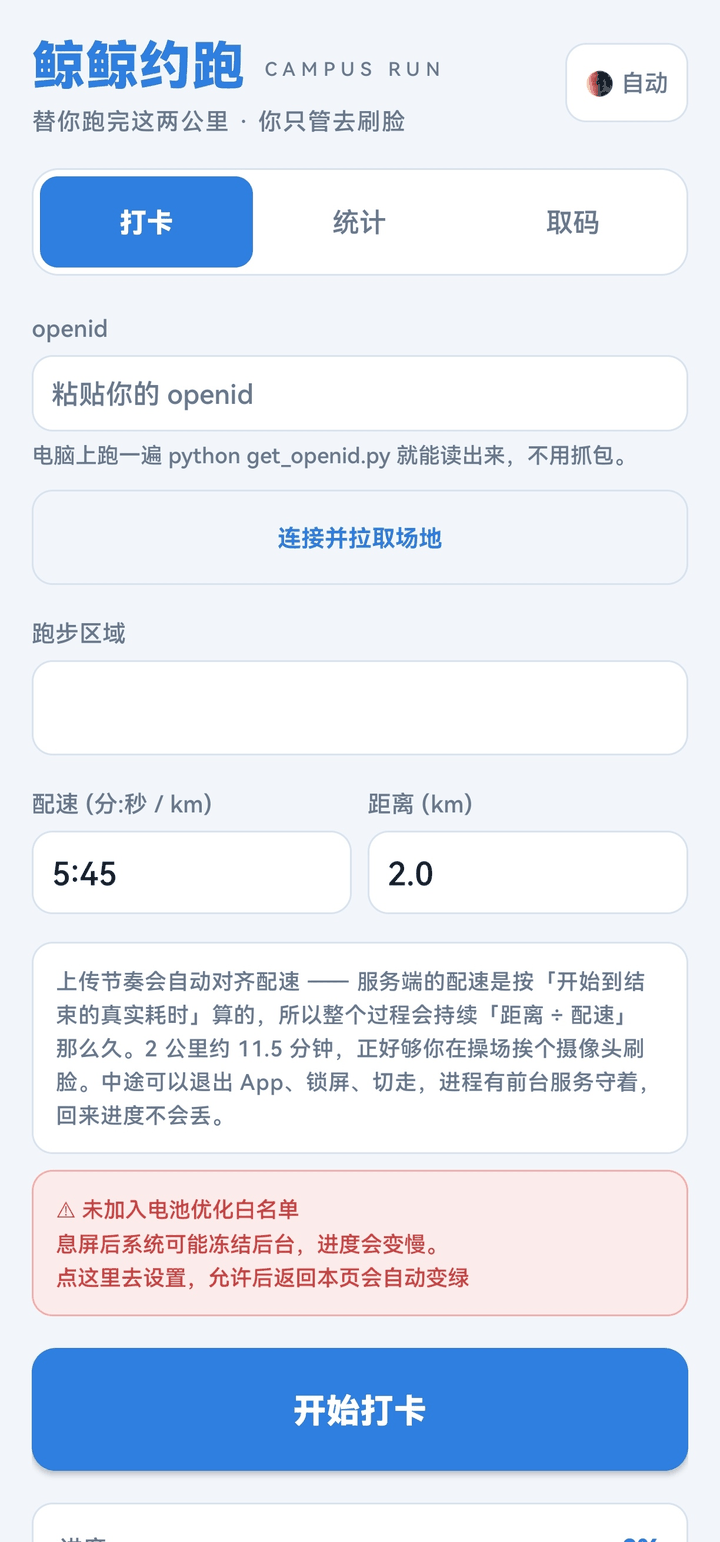
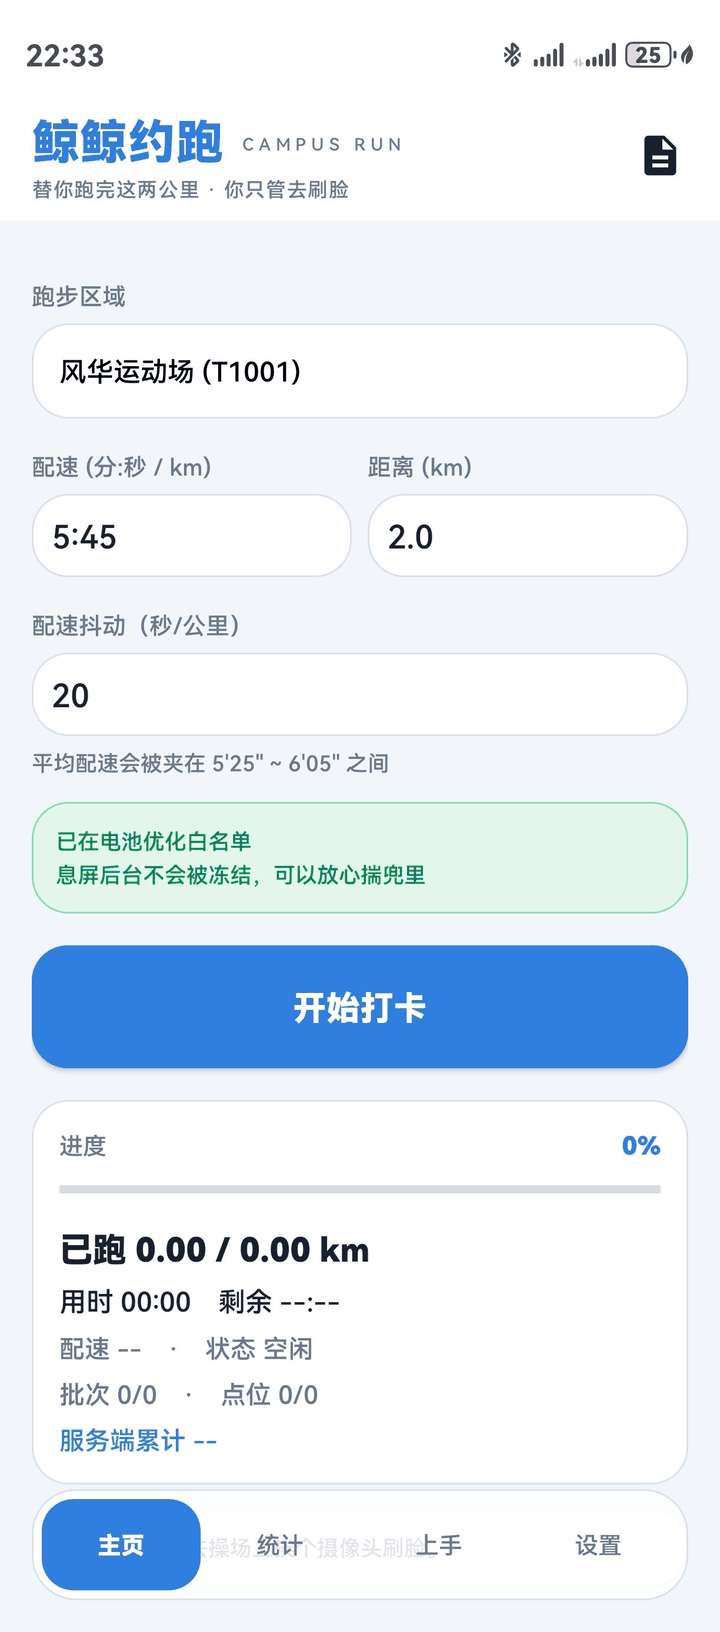
v1.10.0 docs update

diff --git a/android-app/README.md b/android-app/README.md
@@ -12,25 +12,34 @@
 
 ## 界面结构
 
-**主页只有打卡。** 其余全部收进右上角【设置】。
+**一个 Activity + 四个 panel**，底部一条悬浮切换栏。切页只改 `visibility`，
+不重建 Activity，也不引 Fragment / 导航库（守住「零第三方依赖」）。
 
 ```
-主页                          设置页（右上角「设置」进入）
-├── 跑步区域                  ├── openid 输入
-├── 配速 / 距离               ├── 连接并拉取场地
-├── 平均配速容差              ├── 主题（跟随系统 / 深色 / 浅色）
-├── 电池白名单提示             ├── 成绩统计
-├── 开始 / 结束打卡           ├── 取码（openid 说明 + 提取脚本）
-├── 实时仪表盘                ├── 使用教程
-└── 运行日志（右上角【日志】）  ├── 说明信息
-                             └── 开源仓库
+主页                        统计
+├── 跑步区域                └── 成绩汇总 / 分场地 / 最近记录
+├── 配速 / 距离
+├── 配速抖动                 上手
+├── 电池白名单提示           ├── 使用教程
+├── 开始 / 结束打卡          ├── openid 输入 + 连接并拉取场地
+└── 实时仪表盘              └── 取码（openid 说明 + 提取脚本）
+（顶栏右上角小图标进【日志】页）
+
+                            设置
+                            ├── 主题（跟随系统 / 深色 / 浅色）
+                            ├── 说明信息
+                            ├── 开源仓库
+                            └── 署名
 ```
 
-> openid 填在设置页。填完返回主页时会**自动刷新场地列表**（`AreaStore` +
+对应布局：`activity_main.xml`（顶栏 + 4 个 `<include>` + 悬浮栏）
+与 `panel_run / panel_stats / panel_start / panel_settings.xml`。
+四个 panel 的 `id` 全局唯一，`MainActivity.showTab()` 切可见性。
+
+> openid 填在【上手】页。填完切回主页时会**自动刷新场地列表**（`AreaStore` +
 > `onResume` 里的 `syncAreas()`），不需要先点一次【开始打卡】。
 
-主题切换因此也从主页挪到了设置页，改成了「跟随系统 / 深色 / 浅色」三段式，
-不再是一个循环按钮。
+主题切换在【设置】页，是「跟随系统 / 深色 / 浅色」三段式，不是一个循环按钮。
 
 ### 连不上服务器时
 
@@ -74,7 +83,10 @@
 实测（风华运动场，2000m，15 秒滚动窗口）：分段配速约 **4'10" ~ 7'59"**。
 （滚动窗口才对应「跑者感受到的配速」—— 逐秒的瞬时配速在停顿处趋于无穷，取极值没意义。）
 
-### 平均配速容差
+### 配速抖动（容差）
+
+> 界面上叫「配速抖动」，代码里仍是 etTol / paceTol / paceToleranceSec ——
+> 换的只是用户可见文案，机制没动。
 
 主页多了一个「平均配速容差」输入，默认 **20 秒/公里**：
 

diff --git a/docs/img/README.md b/docs/img/README.md
@@ -1,31 +1,36 @@
 # README 截图
 
-实机拍摄（HarmonyOS，浅色主题）。原图 1224×26xx，处理成 720 宽 + 调色板量化。
+实机拍摄（HarmonyOS，浅色主题），原图 1224×2776。处理成 **720 宽 + 256 色 PNG（带抖动）** ——
+UI 截图用调色板量化是标准做法，体积掉一半多，肉眼看不出差别。
 
-| 文件 | 内容 | 拍摄要点 |
+| 文件 | 页面 | 内容 |
 |---|---|---|
-| `01-run.png` | 【打卡】页，未连接 | openid 输入框（空）、配速 5:45、距离 2.0、红色电池条、开始按钮 |
-| `02-stats.png` | 【统计】页 | 数字已打码 |
-| `03-help.png` | 【取码】页 | 说明 + 复制/分享脚本按钮 + 行数统计 |
-| `04-running.png` | 【打卡】页跑动中 | 绿色电池条 + 实时仪表盘（5% / 0.10 km / 批次 5/99） |
-| `05-battery-bad.png` | 电池条 · 红色 | 未加白名单 |
-| `06-battery-ok.png` | 电池条 · 绿色 | 已加白名单（**注意：没有 ✅，v1.8 去掉了**） |
-| `07-log.png` | 运行日志 | 完整 ①~⑥ 流程，含「记录干净，从 0 开始」 |
+| `icon.png` | — | 应用图标（插画），README 顶部大图，512×512 真彩 |
+| `01-run.png` | 【主页】 | 风华运动场 / 配速 5:45 / 距离 2.0 / 配速抖动 20 / **绿色**电池条 / 开始打卡 / 仪表盘 |
+| `02-stats.png` | 【统计】 | 刷新统计 + 汇总 + 分场地 + 最近记录（数据已打码） |
+| `03-start.png` | 【上手】 | 使用教程 + 账号 openid 输入 + 连接并拉取场地 |
+| `04-settings.png` | 【设置】 | 主题三段式 + 说明 + 开源仓库入口 + 署名 |
+| `05-battery-bad.png` | — | 电池条 · **红色**（未加白名单） |
+| `06-battery-ok.png` | — | 电池条 · **绿色**（已加白名单，无 ✅ emoji） |
+| `07-log.png` | 【日志】 | 完整运行日志，①~⑥ 全流程 |
+
+> `01`~`04` 是 v1.10.0（底部四页悬浮栏）拍的。
+> `05`~`07` 还是 v1.8 拍的，但那三处**没改过**，仍然准确：
+> 电池条的红/绿两态、以及独立的日志页。
 
 ## 拍摄时做的脱敏
 
-- openid 输入框留空
-- 日志里的 `token =` 打了码
-- `sportRecordNo` 打了码
-- 统计页所有数字打了码
+- `03-start.png` 里 openid 输入框填了内容，已打码
+- `02-stats.png` 统计页所有数字打了码
+- 旧图里日志的 `token =` 和 `sportRecordNo` 也打了码
 
 ## 重新处理
 
 原图放一边，改 [`../../refs/icon/process_shots.py`](../../refs/icon/process_shots.py)
-里的 `SRC` / `MAP` 后重跑即可。
+里的 `SRC` / `MAP` 后重跑（记得把 `MAP` 里的时间戳换成新截图的）：
 
 ```bash
-python ../../refs/icon/process_shots.py
+python ../../refs/icon/process_shots.py <截图目录>
 ```
 
 ## 显示尺寸
@@ -34,5 +39,5 @@ README 里用 HTML `<img>` 控制宽度，不用 markdown 图片语法
 （markdown 没法限宽，竖屏截屏会撑满整个页面）：
 
 ```html
-<img src="docs/img/01-run.png" width="320">
+<img src="docs/img/01-run.png" width="200">
 ```

diff --git a/AGENT.md b/AGENT.md
@@ -52,7 +52,7 @@ CQUPT-MockRunning/
 │   ├── app/src/main/java/com/whale/campusrun/
 │   │   ├── Api.kt            重邮智慧体育 API 客户端（无签名、明文 JSON）
 │   │   ├── App.kt            Application 入口，只负责在任何 Activity 前定好主题
-│   │   ├── AreaStore.kt      场地缓存单例：设置页拉到 → 主页 onResume 直接取用
+│   │   ├── AreaStore.kt      场地缓存单例：上手页拉到 → 主页 onResume 直接取用
 │   │   ├── MainActivity.kt   **唯一的主界面**：共享顶栏 + 四个 panel + 悬浮切换栏
 │   │   ├── panel_*.xml      四页的布局（run / stats / start / settings），被 activity_main include
 │   │   ├── RunController.kt  单例，持有跑步线程，切主题重建 Activity 不丢进度
